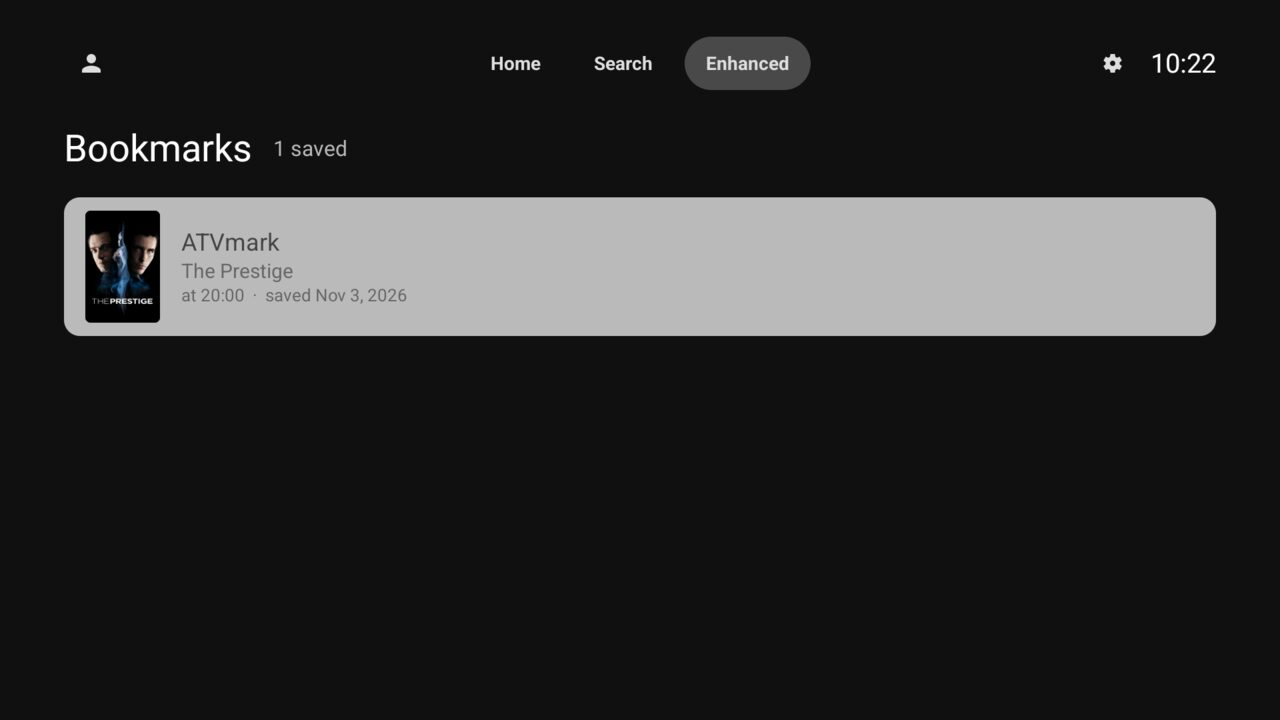
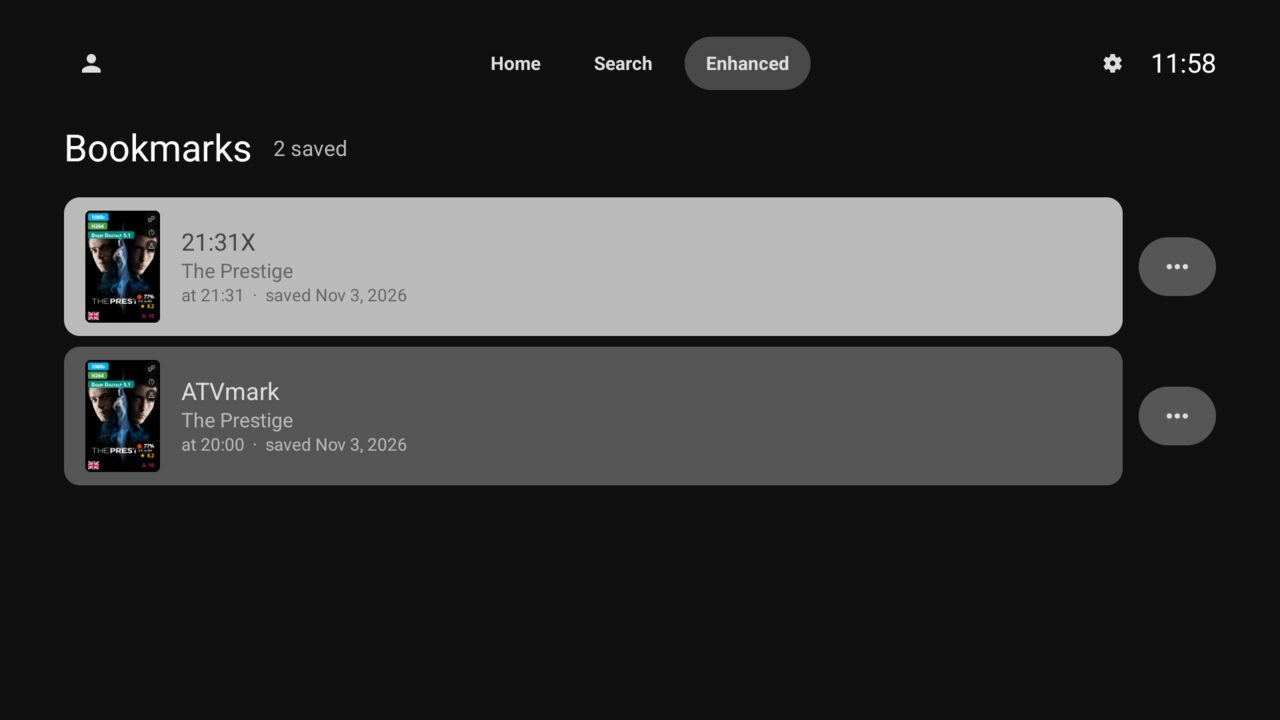
docs(enhanced): document home rows, subtitle sync, AniList and translation, Seerr linking, maintenance notice
Add the new features to the features table, hub, details and settings sections, the HomeRowsFragment
hooks, Seerr linking and the config-load backoff to the plugin section, new limitations, and the
screenshots for home rows, native poster tags, Home rows and Subtitle style settings, About and the
bookmark menu. Remove the finished items from "Not done yet".

diff --git a/ENHANCED.md b/ENHANCED.md
@@ -10,53 +10,69 @@ plugin the app looks and behaves like stock. It installs as its own app ("Jellyf
 ## Features
 
 "Seerr" means the plugin's Jellyseerr/Overseerr integration is set up (`JellyseerrEnabled`) and the signed-in user is
-linked to a Seerr account. Gates are public-config flags unless marked "user" (the user's JE `settings.json`, falling
-back to the server default). Packages are under `app/src/enhanced/java/org/jellyfin/androidtv/enhanced/`.
+linked to a Seerr account. Nobody signs in to Seerr from the app: the plugin links a Jellyfin user to the Seerr account
+carrying their Jellyfin user id, importing them automatically when its `JellyseerrAutoImportUsers` option is on, and an
+administrator can import everyone from the About page (see [How it talks to the plugin](#how-it-talks-to-the-plugin)).
+Gates are public-config flags unless marked "user" (the user's JE `settings.json`, falling back to the server
+default). Packages are under `app/src/enhanced/java/org/jellyfin/androidtv/enhanced/`.
 
 | Feature | Where in the app | JE gate / setting | Package |
 |---|---|---|---|
 | Enhanced hub | "Enhanced" button in the main toolbar | plugin present and at least one hub page enabled | `ui/hub`, `ui/EnhancedToolbarButton.kt` |
+| Maintenance notice | Banner at the top of the hub; one-time dialog after start-up | the plugin's maintenance mode (`MaintenanceModeEnabled`, read fresh from `public-config`) | `maintenance`, `ui/hub/HubNotice.kt` |
+| Home rows: Coming up, Jump back in, Trending on Seerr, Catch Up | Home screen, after upstream's rows | each off until turned on in Settings › Jellyfin Enhanced › Home rows (stored on the device); then `CalendarPageEnabled`, `BookmarksEnabled`, Seerr + `RecommendationsPageEnabled`, `CatchUpEnabled` | `home` |
 | Seerr in search | Search screen, below the library rows | Seerr + `JellyseerrShowSearchResults`; people row `JellyseerrShowPersonDiscovery`; collections row `ShowCollectionsInSearch` | `search` |
-| Discover | Hub | Seerr + `RecommendationsPageEnabled` | `discover` |
+| Discover | Hub | Seerr + `RecommendationsPageEnabled` (shown with a link notice when only the Seerr link is missing) | `discover` |
 | Pick something (random title) | Hub, Discover header | user `RandomButtonEnabled` (on by default) | `discover` |
 | Catch Up deck | Hub | `CatchUpEnabled` | `catchup` |
-| Requests, watchlist, downloads, issues | Hub | Seerr + `DownloadsPageEnabled`; tabs: `ShowDownloadsInRequests`, `DownloadsShowHistory` (+ `DownloadsHistoryAdminOnly`), `DownloadsPageShowIssues` | `requests` |
+| Requests, watchlist, downloads, issues | Hub | Seerr + `DownloadsPageEnabled` (shown with a link notice when only the Seerr link is missing); tabs: `ShowDownloadsInRequests`, `DownloadsShowHistory` (+ `DownloadsHistoryAdminOnly`), `DownloadsPageShowIssues` | `requests` |
 | Calendar | Hub | `CalendarPageEnabled` | `calendar` |
-| Bookmarks | Hub page, "Add bookmark" on details, Bookmark action in the player | `BookmarksEnabled` | `bookmarks`, `playback` |
+| Bookmarks | Hub page (play, open details, rename, delete), "Add bookmark" on details, Bookmark action in the player | `BookmarksEnabled` | `bookmarks`, `playback` |
 | Activity and active streams | Hub | `ActivityFeedEnabled` or `ActiveStreamsEnabled` (non-admins also need `ActiveStreamsAllUsers`) | `activity` |
 | Spoiler Guard | Details button, collection card menu, Seerr details (pending opt-in), hub page, settings | `SpoilerBlurEnabled` | `data`, `ui/details`, `ui/menu`, `management` |
 | Hidden Content (Hide/Unhide) | Details, card menu, Seerr cards and details, hub page, settings | `HiddenContentEnabled` + the user's Hidden Content "show Hide buttons" options | `data`, `ui/menu`, `management` |
 | Remove from Continue Watching / Next Up | Card menu on those home rows | user `RemoveContinueWatchingEnabled` | `ui/menu`, `data` |
 | More from… and Seerr rows | Movie, show, person and collection details | Seerr + `JellyseerrShowPerson/Genre/Network/Tag/CollectionDiscovery`, `JellyseerrShowRecommended`, `JellyseerrShowSimilar` | `ui/details`, `ui/seerr`, `seerr` |
 | Seerr details and requests | Any Seerr card | Seerr | `ui/seerr`, `seerrdetails` |
+| Seerr account link | About page (link status, admin "Import Jellyfin users into Seerr"), link notice on Discover and Requests, TV-worded link errors on every Seerr screen | `JellyseerrEnabled`; automatic linking follows the plugin's `JellyseerrAutoImportUsers` | `seerr/SeerrLink*.kt`, `ui/seerr/SeerrLinkUi.kt`, `about` |
 | Request more | Show details | Seerr + `JellyseerrShowRequestMoreOnSeries` | `requests/RequestMoreAction.kt` (bound in `seerrdetails`) |
 | Report a problem, open issues | Library details, Seerr details | Seerr + `JellyseerrShowReportButton`; indicator `JellyseerrShowIssueIndicator` | `issues`, `seerrdetails` |
 | Enhanced info row | Library details | user `ShowFileSizes`, `ShowWatchProgress`, `ShowAudioLanguages`, `PeopleTagsEnabled`; `ShowReleaseDates`, `MdblistRatingsEnabled` + `MdblistRatingsShowOnItemDetails`, `ShowAwards`, `ElsewhereEnabled` + `TmdbEnabled` | `metadata` |
 | Cast ages | Library details | user `PeopleTagsEnabled` | `metadata` |
 | Content warnings | Library details button | `DoesTheDogDieEnabled` | `metadata` |
 | Ratings, awards, where to watch on Seerr details | Seerr details | same flags as the info row | `metadata` |
-| Reviews and "Rate" | Library details | `ShowUserReviews` (JE reviews), `ShowReviews` + `TmdbEnabled` (TMDB reviews) | `reviews` |
+| Reviews and "Rate" | Library details | `ShowUserReviews` (JE reviews), `ShowReviews` + `TmdbEnabled` (TMDB reviews), `ShowAnilistReviews` + an AniList provider id on the item or its series (AniList reviews) | `reviews` |
+| Review translation | Reviews reader (OK on a review) | `ReviewTranslationEnabled` + a translation server set (`ReviewTranslationServer`, plugin 12.14+) | `reviews` |
 | Pause screen | Video player | user `PauseScreenEnabled`, `PauseScreenDelaySeconds` | `playback` |
 | Rating badge at playback start | Video player | `ShowPlaybackRatingBadge` (colours with `ColoredRatingsEnabled`) | `playback` |
 | Community and critic ratings in the OSD | Video player | user `ShowRatingInPlayer` | `playback` |
-| JE settings | Settings › Jellyfin Enhanced | plugin present | `ui/settings`, `management`, `metadata`, `about` |
+| Native poster tags | Every poster the app loads from the server | server `NativePosterTagsEnabled`, user `UseNativePosterTags` (Details & tags page) | none: the server composites quality, codec, audio, rating and language badges into the poster images |
+| Subtitle style sync | Player subtitles; Settings › Jellyfin Enhanced › Subtitle style | plugin present; applied only when the user turns it on for this device and user `DisableCustomSubtitleStyles` is off | `subtitles` |
+| JE settings | Settings › Jellyfin Enhanced | plugin present | `ui/settings`, `management`, `metadata`, `home`, `subtitles`, `about` |
 | What's New | Settings › Jellyfin Enhanced › About | administrators only | `about` |
 
 ## Hub pages
 
-The toolbar's "Enhanced" button opens a grid of the pages that apply to this server and user, in this order:
+The toolbar's "Enhanced" button opens a grid of the pages that apply to this server and user, in this order. While
+the plugin's maintenance mode applies to the user, a banner above the grid shows its message and end time (refreshed
+every 30 s; not focusable). Administrators see "Maintenance mode is on for other users" when the mode disables
+accounts or remote access, since it never disables them. The same notice comes up once per maintenance window as a
+dialog after start-up, never over the player or the sign-in screens.
 
 | Page | What it shows |
 |---|---|
-| Discover | Trending, Popular and Upcoming Seerr rows (each ending in "View all"), genre tiles and curated studio and network tiles, all opening the Seerr discovery grid (Popular / Top rated / Newest / Oldest where Seerr can sort). "Pick something for me" in the header. |
+| Discover | Trending, Popular and Upcoming Seerr rows (each ending in "View all"), genre tiles and curated studio and network tiles, all opening the Seerr discovery grid (Popular / Top rated / Newest / Oldest where Seerr can sort). "Pick something for me" in the header. When the user's Seerr account isn't linked, a notice with "Check again" (admins: "Import Jellyfin users into Seerr") replaces the page. |
 | Pick something | Picks a random library title (following the user's `RandomUnwatchedOnly`, `RandomIncludeMovies/Shows`, `RandomSourceId`) and replaces itself with its details, so Back returns to the hub. |
 | Catch Up | Random unwatched movies and shows one card at a time, with Watch, Details, Watched (season picker for shows), Watchlist (JE's "Likes"), Dismiss and Undo. Dismissals are kept on the device per server and user; they are not Hidden Content. Actions are logged to `catchup/event`. |
-| Requests | Tabs Requests (status filters, "Only mine", Approve/Decline for Seerr managers), Watchlist ("Sync watchlists now" for admins with `SyncJellyseerrWatchlist`), Queue (polled while visible when `DownloadsPagePollingEnabled`), History and Issues. |
+| Requests | Tabs Requests (status filters, "Only mine", Approve/Decline for Seerr managers), Watchlist ("Sync watchlists now" for admins with `SyncJellyseerrWatchlist`), Queue (polled while visible when `DownloadsPagePollingEnabled`), History and Issues. The same Seerr link notice as Discover replaces the page when the account isn't linked. |
 | Calendar | Two-week agenda of Sonarr, Radarr and Shoko releases grouped by day, with week navigation and filters (Radarr, Sonarr, Movies, Episodes, Downloaded, My requests). Opens the title in the library when the user can see it there, otherwise on Seerr. |
-| Bookmarks | The user's timestamp bookmarks, newest first. OK plays from the saved moment; long-press offers Open details and Delete. Bookmarks whose item is gone are marked and can be deleted. |
+| Bookmarks | The user's timestamp bookmarks, newest first. OK plays from the saved moment; long-press, Menu or the row's ⋯ button offers Play from here, Open details, Rename (empty label = the time) and Delete (with confirmation). Changes apply in place, so the focus stays on the list. Bookmarks whose item is gone are marked and can be deleted. |
 | Activity | Active streams on top (refreshed every 30 s while visible) and the Watched / Favorited / Reviewed feed below. |
 | Spoiler Guard | Every protected show, movie and collection, plus pending opt-ins for titles not in the library yet. Select opens the title; "Turn off" removes protection (confirming unless the user skipped that). |
 | Hidden Content | Everything the user hid, everywhere or only from Continue Watching / Next Up, with scope and type filters, per-entry Unhide/Restore and "Restore all". |
+
+Empty Spoiler Guard, Hidden Content and Bookmarks pages, empty Requests tabs and the reviews reader show a focusable
+Back button; after Unhide, Restore or "Turn off" the focus moves to the next row.
 
 `EnhancedDestinations.hub("<id>")` opens the hub straight on a page (ids `discover`, `random`, `catchup`, `requests`,
 `calendar`, `bookmarks`, `activity`, `spoiler-guard`, `hidden-content`).
@@ -76,8 +92,12 @@ On the library item details screen (`FullDetailsFragment`):
   Rate, Add bookmark, Report a problem typically end up there).
 - Rows, after upstream's rows: "Enhanced info" (file size, watch progress, audio languages, release dates, MDBList and
   Seerr ratings, awards, where to watch, a person's birth facts), "Cast ages", "Reviews" (JE reviews first, then
-  TMDB's; cards open a full-screen reader), "Recommended" and "Similar" Seerr titles on movies and shows, "More from
-  <person>" on cast pages and the missing parts of a collection.
+  AniList's, then TMDB's; cards open a full-screen reader), "Recommended" and "Similar" Seerr titles on movies and
+  shows, "More from <person>" on cast pages and the missing parts of a collection.
+- AniList reviews show their AniList score. In the full-screen reader, when the server
+  translates reviews, OK translates the review (asking for the language the first time, remembered per server and
+  user on the device) and toggles back to the original; holding OK or Menu picks another language. Translations are
+  kept in memory for the session.
 - Seerr details (any Seerr card, `SeerrDetailsFragment`): poster, overview and status, Request (standard requests;
   a season picker for shows that counts open requests and the library's own seasons), "Open in library" once
   available, "Enable Spoiler Guard" as a pending opt-in, Hide/Unhide, Report a problem with the open issues listed,
@@ -88,10 +108,28 @@ On the library item details screen (`FullDetailsFragment`):
   home rows; Spoiler Guard on collection cards (collections open in the library browser, which has no button row).
   Hide on collections only with the user's `ExperimentalHideCollections`, as on the web. Seerr cards get Hide too.
 
+## Home rows
+
+Four optional rows after upstream's home rows, each off by default and switched on in Settings › Jellyfin Enhanced ›
+Home rows (per server and user, stored on the device; JE's `settings.json` has no keys for them). They appear,
+disappear and reload live (settings change, gate change, home screen resumed); a row that fails to load is left out.
+
+| Row | Shows | Select |
+|---|---|---|
+| Coming up | Monitored calendar releases of the next 7 days that are in the library and visible to the user (max 30), "S02E07 · Thu" / "Today" / "Tomorrow"; never episode titles. Releases whose date Spoiler Guard hides come last, without a day | Details of the episode, series or movie |
+| Jump back in | The newest 20 bookmarks whose item still exists, label and time | Plays from the bookmark |
+| Trending on Seerr | Seerr trending titles not in the library, without hidden, blocklisted or pending Spoiler Guard titles (max 20) | Seerr details; long-press for Hide |
+| Catch Up | An "Open Catch Up" tile, then 10 random unwatched movies and shows not dismissed in Catch Up | The deck, or the title's details |
+
+Library cards are upstream's cards built from the server's own items, so Spoiler Guard, Hidden Content and poster
+tags apply as everywhere else.
+
 ## Settings pages
 
-Settings › Jellyfin Enhanced (only when the plugin is present). Every page edits the user's JE documents through the
-plugin, so the web client sees the same choices.
+Settings › Jellyfin Enhanced (only when the plugin is present). The pages edit the user's JE documents through the
+plugin, so the web client sees the same choices; Home rows and Subtitle style are the exceptions and stay on the
+device. The Spoiler Guard, Hidden Content, Details & tags and Playback pages open with the focus on their first
+toggle; a page that is turned off on the server shows a focused Back.
 
 | Page | Contents | Shown when |
 |---|---|---|
@@ -99,9 +137,11 @@ plugin, so the web client sees the same choices.
 | Hidden Content | Where hidden titles are filtered (library, discovery, search, upcoming, calendar, recommendations, requests, Next Up, Continue Watching) and which Hide buttons show (details, library, cast, Seerr) | `HiddenContentEnabled` |
 | Details & tags | Watch progress (on/off, percentage or time, time format), file sizes, audio languages, reviews expanded by default, server-drawn poster tags (`UseNativePosterTags`), people tags, "Remove from Continue Watching", the random button (unwatched only, movies, shows) | plugin present |
 | Playback | Pause screen and its delay, `ShowRatingInPlayer` (community and critic ratings in the OSD), JE auto-skip intro/credits (saved for the web client) | plugin present |
+| Home rows | On/off for Coming up, Jump back in, Trending on Seerr and Catch Up (stored on the device, per server and user) | plugin present and at least one row's gate holds |
+| Subtitle style | "Use my Jellyfin Enhanced subtitle style on this device" (stored on the device, per server and user) and what the JE style becomes here: preview, size, colours, outline, position, and what can't be mapped (font, horizontal position, shadows). Turning it off restores the app's own subtitle settings, keeping changes made in the app meanwhile | plugin present |
 | Where to watch | Region and streaming services for "where to watch" | `ElsewhereEnabled` + `TmdbEnabled` |
 | Content warning triggers | DoesTheDogDie topics to highlight | `DoesTheDogDieEnabled` |
-| About Jellyfin Enhanced | Plugin and server versions, Seerr link state, enabled features, latest JE release notes (from GitHub); for admins plugin diagnostics and "New in this plugin version" (What's New) with a server-wide Dismiss row | plugin present |
+| About Jellyfin Enhanced | Plugin and server versions, Seerr link state ("Linked as <name>" for admins, "Not linked…" with Check again), for admins "Import Jellyfin users into Seerr", enabled features, latest JE release notes (from GitHub); for admins plugin diagnostics and "New in this plugin version" (What's New) with a server-wide Dismiss row | plugin present |
 
 ## Screenshots
 
@@ -111,6 +151,8 @@ the four marked "22 Oct", which are from the first release and still match.
 | | |
 |---|---|
 | ![Hub](docs/enhanced/hub.jpg) The hub as an admin, with Catch Up | ![Hub as a viewer](docs/enhanced/hub-viewer.jpg) The hub as a non-admin user |
+| ![Home rows](docs/enhanced/home-rows.jpg) Coming up, Jump back in and Trending on Seerr on the home screen | ![Catch Up home row](docs/enhanced/home-rows-catch-up.jpg) The Catch Up home row with its "Open Catch Up" tile |
+| ![Native poster tags](docs/enhanced/native-poster-tags.jpg) Server-drawn native poster tags (quality, codec, audio, ratings, language) | ![Home rows settings](docs/enhanced/settings-home-rows.jpg) Settings › Jellyfin Enhanced › Home rows |
 | ![Seerr in search](docs/enhanced/search-seerr-rows.jpg) Seerr titles and collections in search | ![Discover](docs/enhanced/discover.jpg) Discover |
 | ![Hide on a Seerr card](docs/enhanced/seerr-card-hide.jpg) Hide in a Seerr card's menu | ![Discovery grid](docs/enhanced/discovery-grid.jpg) Seerr discovery for an actor (22 Oct) |
 | ![Seerr movie details](docs/enhanced/seerr-details-movie.jpg) Seerr details: ratings, awards, where to watch, cast | ![Seerr show details](docs/enhanced/seerr-details-show.jpg) Seerr details of a show: Request more, Report a problem, requester, seasons |
@@ -118,7 +160,7 @@ the four marked "22 Oct", which are from the first release and still match.
 | ![More from menu](docs/enhanced/more-from-menu.jpg) "More from…" lists cast, crew, genres, studios and tags (22 Oct) | ![Person row](docs/enhanced/person-more-from-row.jpg) "More from" row on a cast page (22 Oct) |
 | ![Rate](docs/enhanced/rate-dialog.jpg) Rating a title | ![Remove from Continue Watching](docs/enhanced/remove-from-continue-watching.jpg) Card menu on Continue Watching (22 Oct) |
 | ![Requests](docs/enhanced/requests.jpg) Requests with Approve/Decline | ![Calendar](docs/enhanced/calendar.jpg) Calendar |
-| ![Calendar with Spoiler Guard](docs/enhanced/calendar-spoiler-guard.jpg) A guarded show's releases, listed without dates | ![Bookmarks](docs/enhanced/bookmarks.jpg) Bookmarks |
+| ![Calendar with Spoiler Guard](docs/enhanced/calendar-spoiler-guard.jpg) A guarded show's releases, listed without dates | ![Bookmarks](docs/enhanced/bookmarks.jpg) Bookmarks, one renamed, each with its ⋯ menu button |
 | ![Hidden Content](docs/enhanced/hidden-content.jpg) Hidden Content with scope labels | ![Activity](docs/enhanced/activity.jpg) Activity |
 | ![Spoiler Guard page](docs/enhanced/spoiler-guard-page.jpg) Spoiler Guard page | ![Spoiler Guard on](docs/enhanced/spoiler-guard-on.jpg) Turning Spoiler Guard on for a show (22 Oct) |
 | ![Catch Up](docs/enhanced/catch-up.jpg) Catch Up | ![Catch Up seasons](docs/enhanced/catch-up-seasons.jpg) Catch Up season picker |
@@ -126,14 +168,16 @@ the four marked "22 Oct", which are from the first release and still match.
 | ![OSD ratings](docs/enhanced/player-osd-ratings.jpg) OSD while the badge is up; the ratings line sits under it | ![Player bookmarks](docs/enhanced/player-bookmarks.jpg) Bookmark action with saved bookmarks |
 | ![Bookmark saved](docs/enhanced/player-bookmark-saved.jpg) Bookmark saved from the player | ![Settings](docs/enhanced/settings.jpg) Settings › Jellyfin Enhanced |
 | ![Spoiler Guard settings](docs/enhanced/settings-spoiler-guard.jpg) Spoiler Guard categories | ![Details & tags settings](docs/enhanced/settings-details.jpg) Details & tags |
-| ![Playback settings](docs/enhanced/settings-playback.jpg) Playback settings | ![About](docs/enhanced/settings-about.jpg) About Jellyfin Enhanced |
-| ![What's New](docs/enhanced/whats-new.jpg) What's New for admins | |
+| ![Playback settings](docs/enhanced/settings-playback.jpg) Playback settings | ![Subtitle style](docs/enhanced/settings-subtitle-style.jpg) Subtitle style sync |
+| ![About](docs/enhanced/settings-about.jpg) About as an admin: Seerr linked, "Import Jellyfin users into Seerr" | ![What's New](docs/enhanced/whats-new.jpg) What's New for admins |
 
 ## Upstream hooks
 
 All fork code lives in `app/src/enhanced/` (Kotlin sources and resources, added to the `main` source set by a block
 at the end of `app/build.gradle.kts`). Upstream files only get these hook lines. Each calls into the fork and does
-nothing on a server without the plugin. `git diff upstream/master..HEAD --stat -- app/src/main` lists them all.
+nothing on a server without the plugin. Subtitle style sync, the maintenance notice and Seerr linking need no hooks:
+they start with Koin (`createdAtStart`) and write upstream's subtitle preferences or watch activity lifecycles.
+`git diff upstream/master..HEAD --stat -- app/src/main` lists them all.
 
 | Upstream file (`app/src/main/java/org/jellyfin/androidtv/…`) | Hook line(s) | Purpose |
 |---|---|---|
@@ -142,6 +186,7 @@ nothing on a server without the plugin. `git diff upstream/master..HEAD --stat -
 | `ui/itemdetail/FullDetailsFragment.java` | `ps.addClassPresenter(EnhancedComposeRow.class, …)`; `EnhancedDetails.addRows(…)` after `addAdditionalRows`; `EnhancedDetails.addButtons(…)` before the "more" button; `if (EnhancedDetails.onItemClicked(item)) return;` first in the row click listener | Details buttons, Compose and Seerr rows, clicks on Seerr cards |
 | `ui/itemdetail/FullDetailsFragmentHelper.kt` | `EnhancedDetails.addOverflowItems(…)` at the end of `showDetailsMenu` | Buttons that didn't fit go into "Other options" |
 | `util/KeyProcessor.java` | `EnhancedItemMenu.contribute(…)` in `createItemMenu`; `return EnhancedItemMenu.onMenuItemClick(…)` as the click listener's fallback | Card menu entries (Hide, remove from home rows, Spoiler Guard on collections) |
+| `ui/home/HomeRowsFragment.kt` | `val enhancedRows = EnhancedHomeRows(this)` in `onCreate`; `rows.add(enhancedRows)` after the home sections; `if (EnhancedHomeRows.onItemClicked(requireContext(), item)) return` first in the click listener; safe `as? ItemRowAdapter` cast in `onResume`'s deletion handling | Optional JE home rows (the JE rows aren't `ItemRowAdapter`s, so the hard cast would crash after deleting an item opened from one) |
 | `ui/home/HomeRowsFragment.kt` | `EnhancedItemMenu.onItemSelected(item, row)` first in the item selected listener | Remembers which home row a card is in, for "Remove from Continue Watching / Next Up" |
 | `ui/shared/toolbar/MainToolbar.kt` | `Enhanced` in `MainToolbarActiveButton`; `EnhancedToolbarButton(…)` after the Search button | The "Enhanced" toolbar button that opens the hub |
 | `ui/settings/routes.kt` | `val routes = enhancedSettingsRoutes + mapOf(…)` | JE settings pages |
@@ -160,7 +205,15 @@ switching accounts mid-write can't mix users. Spoiler Guard and Hidden Content f
 the server, in the normal Jellyfin API responses, so for library items the app only toggles them. Seerr calls go
 through the plugin's proxy, which acts as the linked Seerr user and applies its permission checks. Public-config flags
 and user settings only decide whether a control is shown; the server decides whether a call succeeds, and its error
-message is shown (never turned into an empty list).
+message is shown (never turned into an empty list). Calls are cancelled with the screen that started them.
+
+**Seerr account link.** The app never asks for Seerr credentials. `GET jellyseerr/user-status`, which every state load
+calls, already links (auto-imports) the user when the plugin's `JellyseerrAutoImportUsers` is on. `SeerrLinkManager`
+looks once more, 65 s later (past the plugin's 60 s negative cache), when the status says unlinked or couldn't be
+read, and reloads the state once when a Seerr call says `unlinked` while the state says linked; blocked, disabled and
+unreachable are never retried by themselves. Administrators can run `POST jellyseerr/import-users` from About or from
+the link notice (the plugin allows one run per 30 s). Seerr error codes (`unlinked`, `blocked`, `unreachable`,
+permission codes) are shown as TV sentences.
 
 **Spoiler Guard for data the plugin doesn't filter.** TMDB, MDBList and Seerr ratings, release dates, reviews,
 DoesTheDogDie warnings, Sonarr/Radarr calendar data and names saved with bookmarks reach the app unfiltered.
@@ -170,15 +223,18 @@ out of a category. Membership comes from the user's Spoiler Guard lists (series,
 in them). Played movies and episodes pass through like on the server, except that reviews stay withheld. The player
 features use only the item DTO the player already holds, which the server has filtered.
 
-**Fail closed.** Only a 404 from `public-config` means "no plugin". Any other failure marks the plugin config as
-unavailable (retried on the next load) and every title counts as fully protected. The same applies when Spoiler Guard
+**Fail closed.** Only a 404 from `public-config` means "no plugin". Any other failure keeps the state already loaded
+for this user (so protection stays on through a transient error); without one, the plugin config is marked unavailable
+and every title counts as fully protected. The same applies when Spoiler Guard
 is on and anything needed to decide is missing: the user's lists, the policy, or a guarded collection's members (the
 plugin's Hidden Content filter drops hidden items from collection listings, so every hidden item counts as a possible
 member, and an unreadable Hidden Content document leaves membership unknown). Fully protected means no external
 story, ratings, dates, cast, reviews, tags or artwork. Releases whose air date is protected never appear in the
 calendar's dated weeks; they are listed apart from a fixed range (today + 90 days). The Reviews row and content
-warnings are left out, bookmarks show no saved episode name, and the calendar and bookmarks pages show an error with
-Retry when protection can't be resolved.
+warnings are left out, bookmarks show no saved episode name, the calendar and bookmarks pages show an error with
+Retry when protection can't be resolved, and with the config unknown the Activity and Hidden Content pages treat Spoiler
+Guard as on. Automatic reloads after a failed config load wait 30 s (an explicit Retry tries at once), so a struggling
+server isn't hit by every screen.
 
 | Area | Code |
 |---|---|
@@ -187,6 +243,8 @@ Retry when protection can't be resolved.
 | Spoiler Guard lists and policy | `data/SpoilerGuardRepository.kt`, `data/SpoilerProtection.kt` |
 | Hidden Content and home removal | `data/HiddenContentRepository.kt` |
 | Seerr discovery and requests | `seerr/`, `ui/seerr/`, `seerrdetails/`, `issues/` |
+| Seerr account link | `seerr/SeerrLink.kt`, `seerr/SeerrLinkManager.kt`, `ui/seerr/SeerrLinkUi.kt` |
+| Home rows, subtitle style, maintenance | `home/`, `subtitles/`, `maintenance/` |
 | Details buttons and rows, card menu | `ui/details/`, `ui/menu/` |
 | Feature modules, hub entries, settings entries | `FeatureModules.kt`, `ui/settings/FeatureSettingsRoutes.kt`, each package's `INTEGRATION.md` |
 
@@ -222,15 +280,20 @@ does, it will be in one of those spots: keep upstream's version and re-add the h
 
 ## Verification
 
-- Unit tests: the last full run (3 November 2026) passed all 336 app unit tests, 244 of them in the fork's packages
-  (decoders, id and casing conversions, gates, filters, Spoiler Guard policy, season availability, Catch Up deck and
-  season selection, pause-screen timer, rating colours, bookmarks). The fail-closed fixes merged after it add their
-  own tests (`EnhancedRepositoryTest`, `SpoilerProtectionServiceTest`, `CalendarLogicTest`).
+- Unit tests: the last full run (3 November 2026, with every feature above merged) passed all 460 app unit tests, 368
+  of them in the fork's packages (decoders, id and casing conversions, gates, filters, Spoiler Guard policy and the
+  fail-closed config load, season availability, Catch Up deck and season selection, pause-screen timer, rating
+  colours, bookmarks, home rows, subtitle style mapping and sync rules, AniList decoding and review translation,
+  maintenance notice rules, Seerr link states and rechecks).
 - Device: each feature was exercised with the D-pad on the Android TV emulator against an isolated lab server
   (Jellyfin 12.1, JE 12.13, Seerr), as an admin and as a non-admin user: search, Discover, Seerr details for movies
   and shows, requests and Request more, Report a problem, Rate, bookmarks from details and from the player, Hide and
   Unhide, all hub pages, all JE settings pages and About, Catch Up (Dismiss, Watched, Watchlist and their Undo, season
-  picker), pause screen, rating badge, OSD ratings, and the calendar with a Spoiler Guarded show.
+  picker), pause screen, rating badge, OSD ratings, and the calendar with a Spoiler Guarded show. Later additions
+  checked on the device: the four home rows, the Bookmarks ⋯ menu (rename, delete), the Subtitle style and Home rows
+  pages, About with the Seerr link and import rows, and native poster tags. AniList reviews and review translation
+  were only unit-tested (no lab item has an AniList id, and the lab's JE 12.13 has no translation routes); the
+  maintenance notice and the Discover/Requests link notices were checked by unit tests of their rules.
 - Stock behaviour: on a plain Jellyfin 12.1 server without the plugin there is no Enhanced button and no JE settings
   entry, and search and details work as upstream.
 - The merged code went through independent review rounds; their must-fix findings (Spoiler Guard in metadata,
@@ -250,7 +313,7 @@ does, it will be in one of those spots: keep upstream's version and re-add the h
   episodes that can seek, saves at once with the time as its label (no label editor in the player), and reads the
   item's bookmarks once per playback, so bookmarks added elsewhere meanwhile show up next time; ratings and the badge
   come only from the server-filtered item, so a protected title shows only what the server lets through; the badge
-  shows for 5 seconds after the first frame and covers the OSD ratings line if the OSD is opened in that time.
+  shows for 5 seconds after the first frame and is hidden while the OSD is up.
 - The details screen fits six buttons; the rest are in "Other options". The "Enhanced info" row comes after
   upstream's rows, not directly under the overview.
 - Hidden Content is saved as a whole document, as on the web, so a hide made on another device at the same moment can
@@ -258,14 +321,21 @@ does, it will be in one of those spots: keep upstream's version and re-add the h
 - Catch Up dismissals are stored on the device, not on the server.
 - What's New "Dismiss" is server-wide (for every administrator), as on the web.
 - Bookmarks whose item was replaced or removed are marked and can be deleted, but are not re-linked to a new copy.
+- Review translation needs JE 12.14 or later with a LibreTranslate server set in the plugin. Only the reviews reader
+  translates (not the cards in the row).
+- AniList reviews need an AniList provider id on the item (or, for seasons and episodes, on the series), as written by
+  an anime metadata plugin.
+- Home-row choices and the subtitle style sync switch are stored on the device (per server and user), not in JE's
+  settings, so each TV is set up on its own. The chosen translation language is also per device.
+- Subtitle style sync can't map the font family, horizontal position or shadows (approximated by an outline); the
+  player keeps the app's own font, centred.
+- About shows the linked Seerr account's name only to administrators (reading Seerr users needs admin rights);
+  other users see "Linked".
+- The Activity page has nothing focusable when there are no active streams and the feed is empty or off; use Back.
 
 ## Not done yet
 
-- Review translation and AniList reviews (JE and TMDB reviews are shown).
-- Client-drawn poster tags (quality, language, rating, age). Only the server-drawn native poster tags setting is
-  offered.
+- Client-drawn poster tags (quality, language, rating, age). Only the server-drawn native poster tags are shown.
 - JE playback extras beyond the pause screen: keyboard shortcuts, auto-pause/resume, auto PiP, hold for 2×.
-- JE subtitle style synchronisation.
-- Editing bookmark labels.
-- Maintenance banner, admin operations (Spoiler Guard repair, cross-user Hidden Content, review moderation, active
-  stream broadcast) and external links to Seerr, Sonarr/Radarr or Letterboxd.
+- Admin operations (Spoiler Guard repair, cross-user Hidden Content, review moderation, active stream broadcast) and
+  external links to Seerr, Sonarr/Radarr or Letterboxd.
